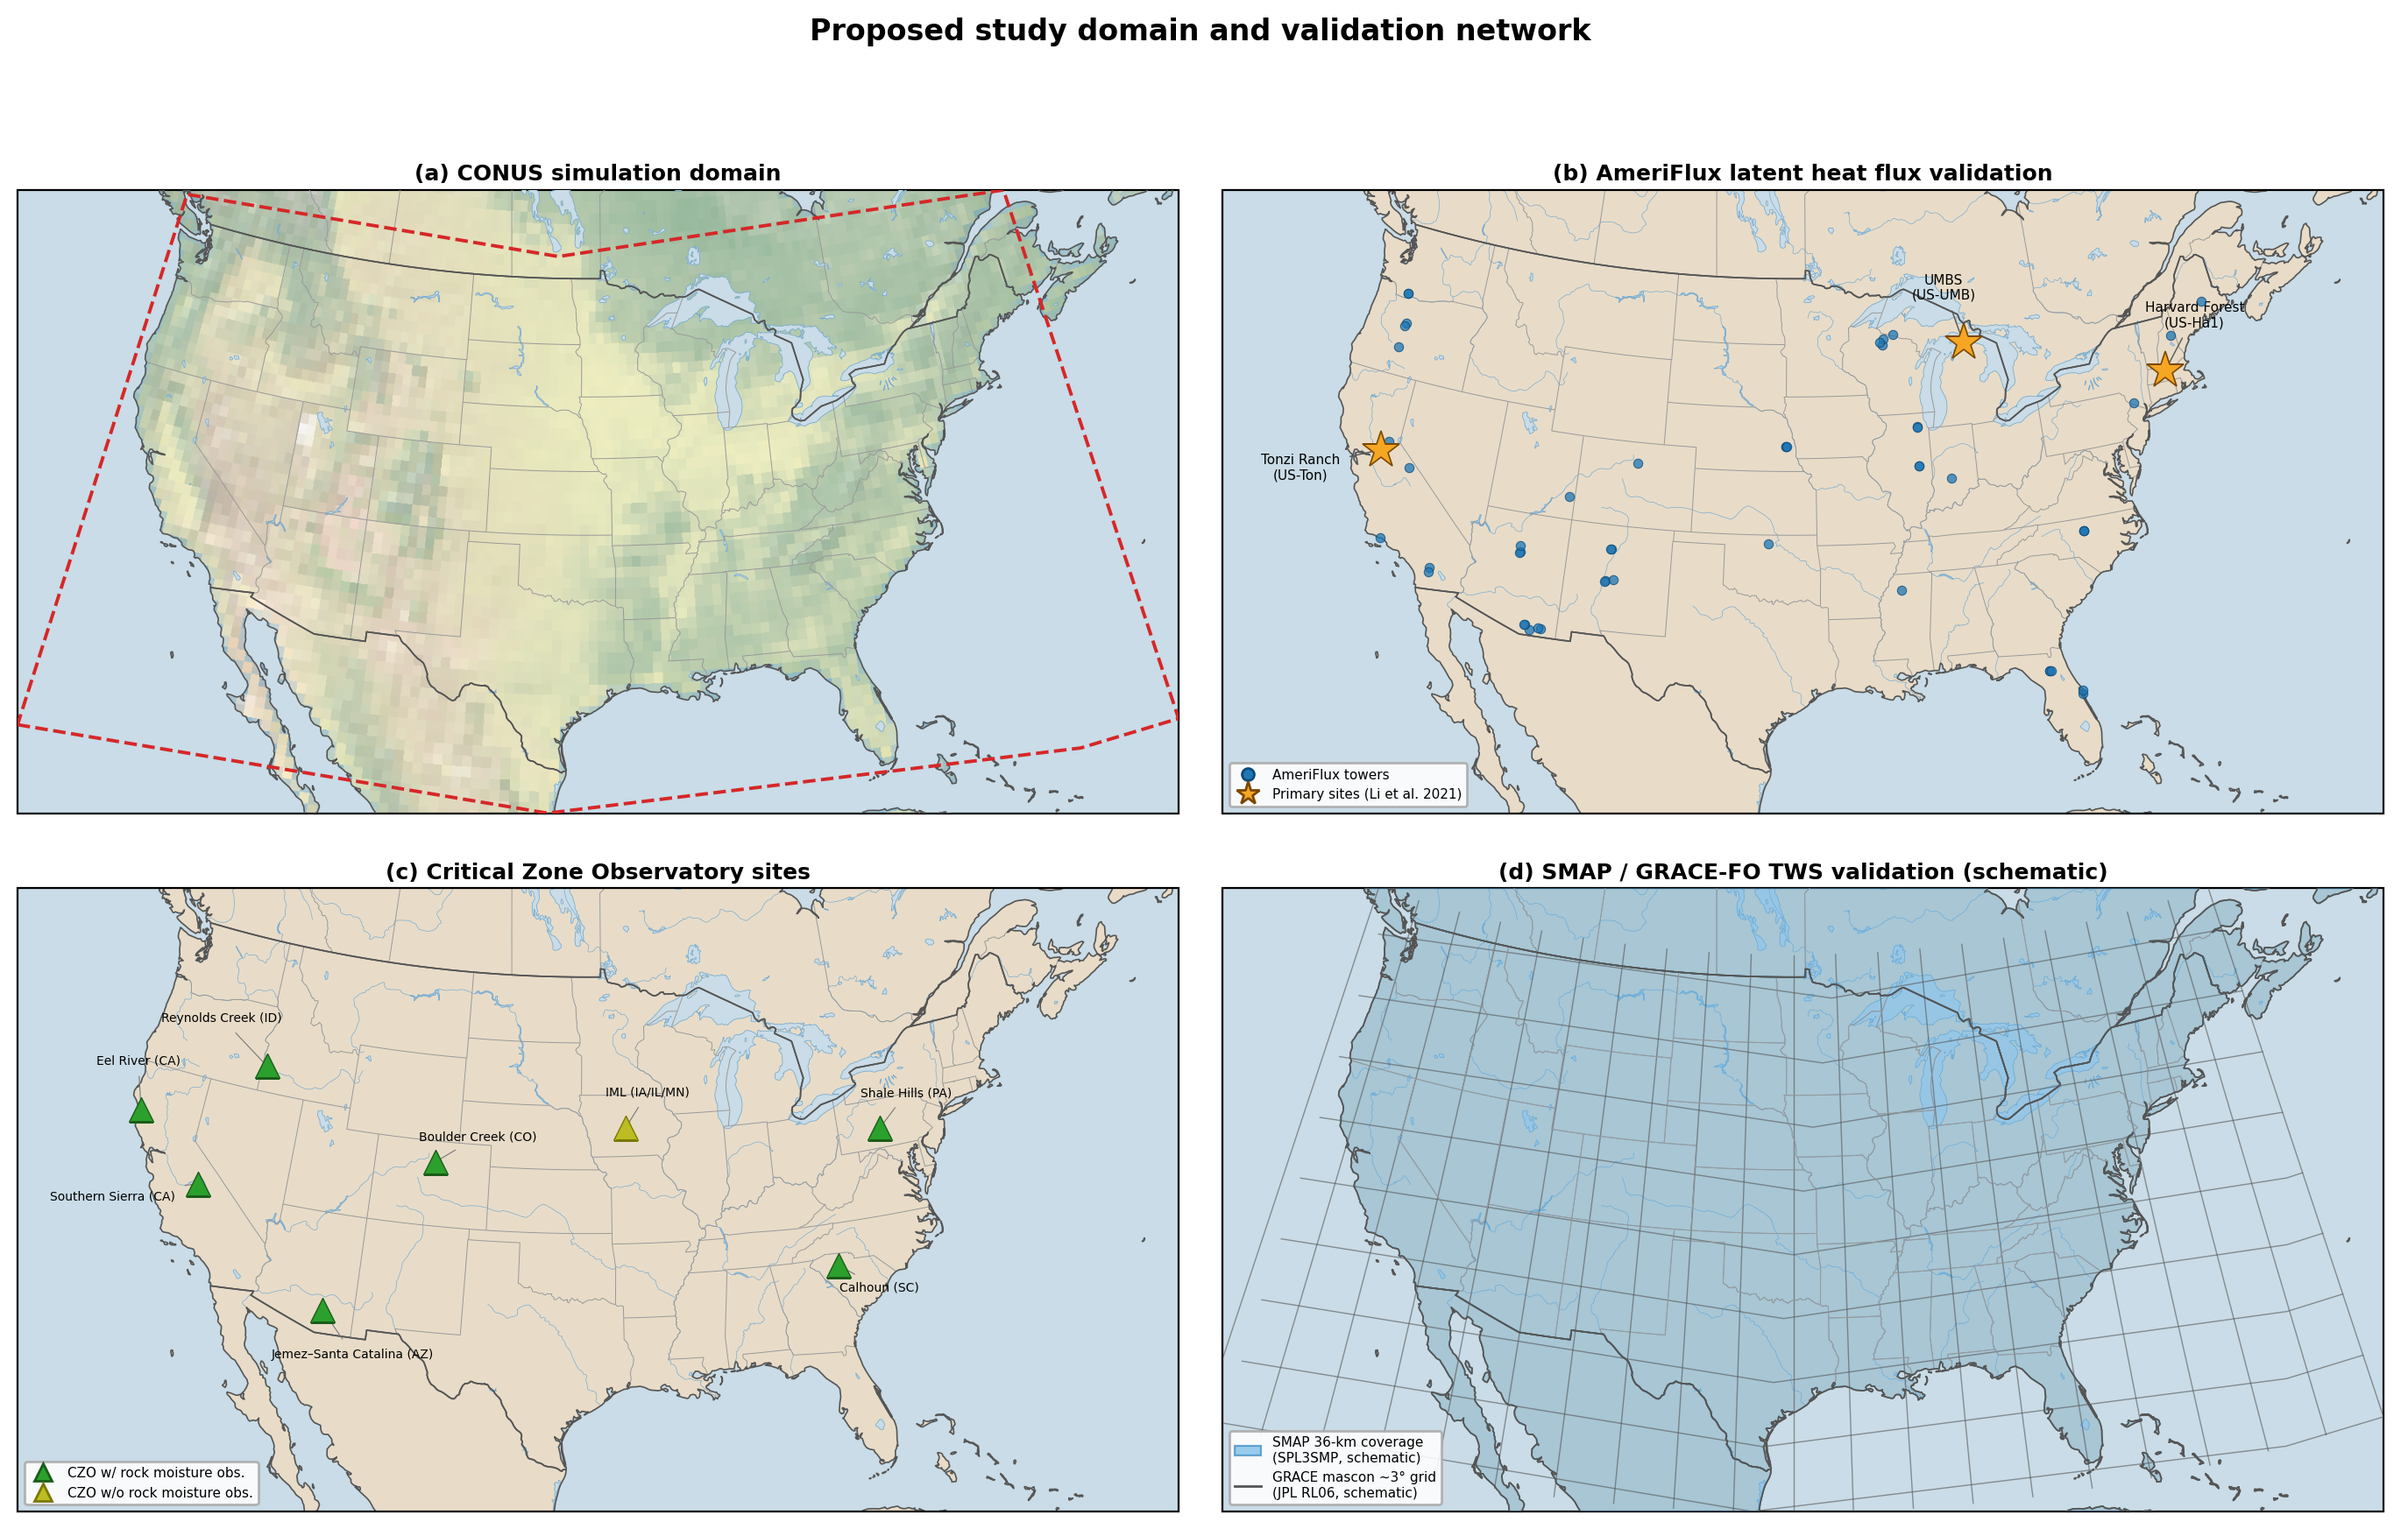
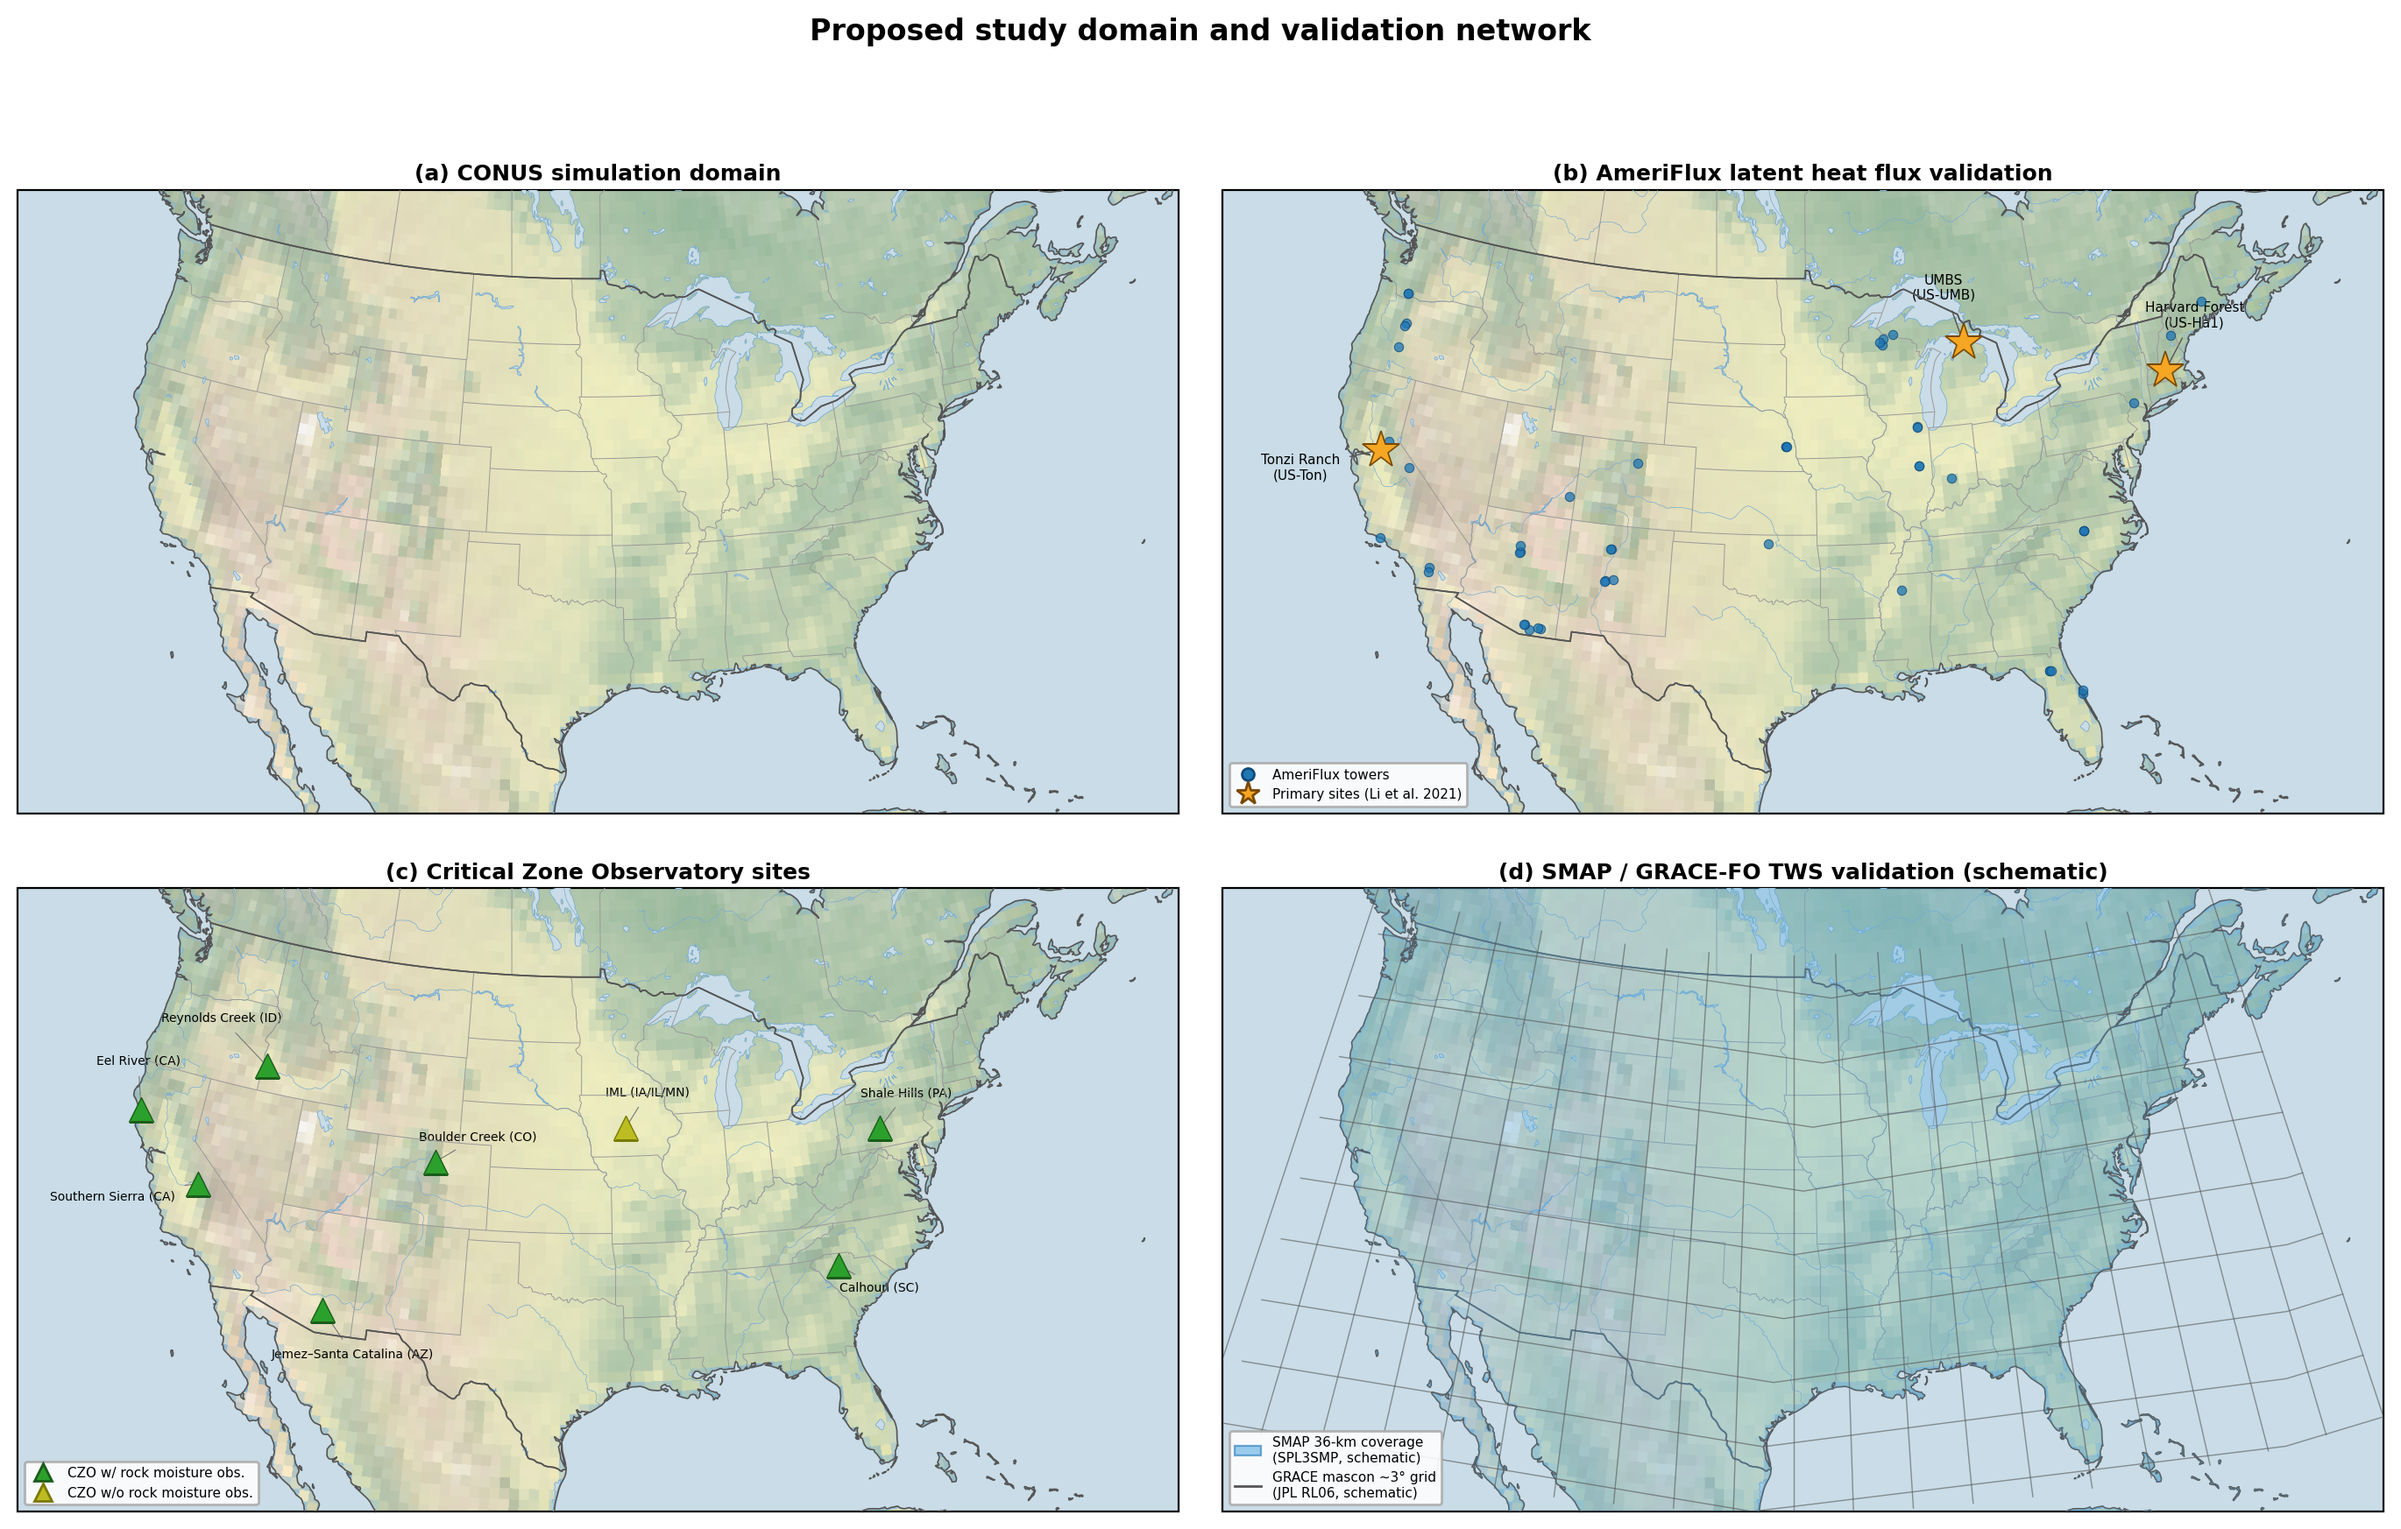
fix(python): add topography to all panels, remove red domain box from panel (a)
- Move stock_img() into _base() so panels (b)(c)(d) share topography background
- Remove CONUS bounding box red dashes from panel (a)
- Clean up panel (d): remove redundant LAND/STATES/BORDERS re-draws

diff --git a/python/Maps/map_4panel.py b/python/Maps/map_4panel.py
@@ -113,14 +113,14 @@ LAND    = cfeature.NaturalEarthFeature("physical", "land", "50m",
 
 
 def _base(ax):
-    """Apply CONUS extent + standard features."""
+    """Apply CONUS extent + standard features including topography background."""
     ax.set_extent([LON_W, LON_E, LAT_S, LAT_N], crs=DATA_CRS)
-    ax.add_feature(OCEAN)
-    ax.add_feature(LAND)
-    ax.add_feature(LAKES)
-    ax.add_feature(RIVERS)
-    ax.add_feature(STATES)
-    ax.add_feature(BORDERS)
+    ax.stock_img()                          # Natural Earth 1:50m shaded relief
+    ax.add_feature(OCEAN, zorder=2)
+    ax.add_feature(LAKES, zorder=3)
+    ax.add_feature(RIVERS, zorder=3)
+    ax.add_feature(STATES, zorder=4)
+    ax.add_feature(BORDERS, zorder=4)
     ax.spines["geo"].set_linewidth(0.8)
 
 
@@ -138,12 +138,6 @@ def panel_topography(ax):
     ax.add_feature(STATES, zorder=4)
     ax.add_feature(BORDERS, zorder=4)
     ax.spines["geo"].set_linewidth(0.8)
-
-    # CONUS domain bounding box
-    lons = [LON_W, LON_E, LON_E, LON_W, LON_W]
-    lats = [LAT_S, LAT_S, LAT_N, LAT_N, LAT_S]
-    ax.plot(lons, lats, transform=DATA_CRS,
-            color="#d62728", linewidth=1.4, linestyle="--", zorder=5)
 
     ax.set_title("(a) CONUS simulation domain", fontsize=9,
                  fontweight="bold", pad=4)
@@ -371,18 +365,14 @@ def _grace_grid(ax, lon_step=3.0, lat_step=3.0):
 def panel_smap_grace(ax):
     _base(ax)
 
-    # SMAP: shade CONUS land with distinct blue — schematic coverage indicator
+    # SMAP: semi-transparent blue overlay on land — schematic coverage indicator
     smap_fill = cfeature.NaturalEarthFeature("physical", "land", "50m",
                                               facecolor="#5aade4",
                                               edgecolor="none")
-    ax.add_feature(smap_fill, alpha=0.45, zorder=3)
+    ax.add_feature(smap_fill, alpha=0.35, zorder=5)
 
     # GRACE mascon grid (schematic 3° scale)
     _grace_grid(ax)
-
-    # Re-draw borders on top
-    ax.add_feature(STATES, zorder=6)
-    ax.add_feature(BORDERS, zorder=6)
 
     smap_patch = mpatches.Patch(facecolor="#5aade4", alpha=0.6,
                                  edgecolor="#2278b5", linewidth=0.8,
